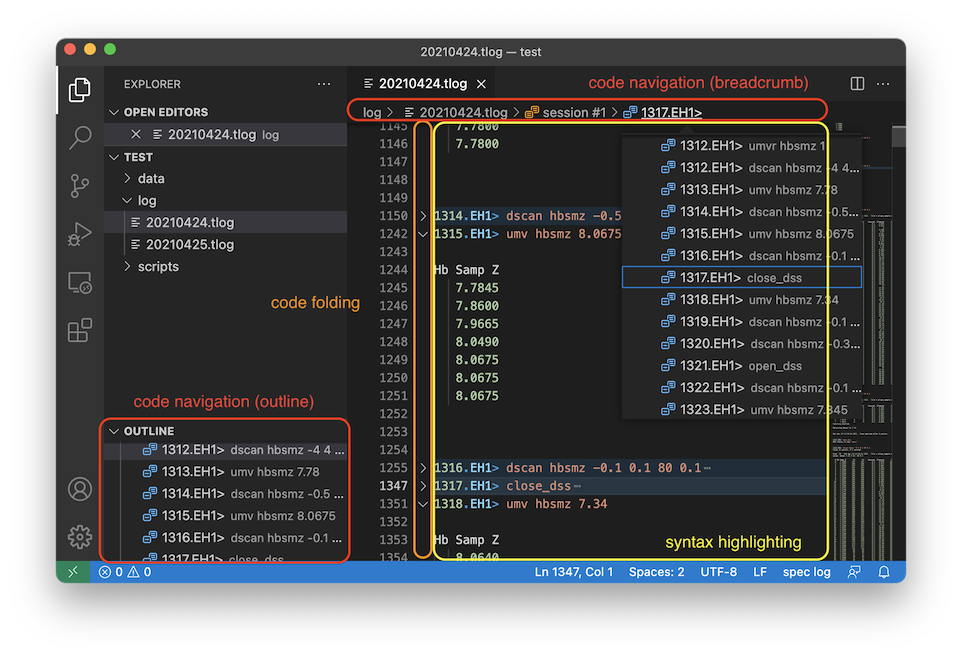
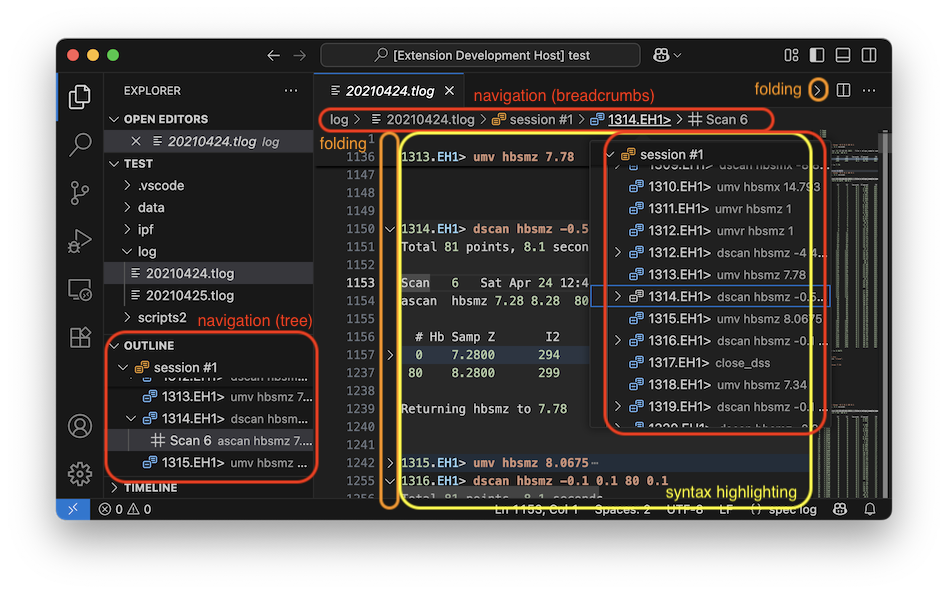
docs: update for v2.0.0

diff --git a/README.md b/README.md
@@ -1,6 +1,6 @@
 # __spec__ Log File Extension for Visual Studio Code
 
-The extension enhances user experiences in browsing __spec__ log files with Visual Studio Code.
+The extension is designed to assist a user in browsing __spec__ log files with Visual Studio Code.
 The term _log files_ here indicates files created when __spec__ software is launched with `-l` option (e.g., `fourc -l 20210414.tlog`).
 
 __spec__ does not specify the filename extension of log files.
@@ -20,12 +20,10 @@ Use [GitHub issues](https://github.com/fujidana/vscode-spec-log/issues) for bug 
 ## Features
 
 * __Syntax highlighting__
-* __Code navigation__
+* __Code navigation__ : prompts such as `1.FOURC>` and scans are regarded as breadcrumbs.
   * __Show all symbol definitions within a document__
-* __Code folding__
-* __Document links__
-
-Lines starting with a __spec__ prompt such as `1.FOURC>` are picked out for code navigation and folding.
+* __Code folding__ : continous lines that only contains numbers or time are foldable, in addition to prompts.
+* __Document links__ : Make a file path in a scan header a clickable link. The path is relative to the workspace, not to the log file.
 
 ![screenshot](resources/screenshot.png)
 
@@ -36,7 +34,7 @@ To do so, use "Fold Level 2" command or its equivalent Keyboard shortcut, Ctrl+K
 
 ## Known Issues
 
-See [GitHub issues](https://github.com/fujidana/vscode-spec-log/issues).
+See [GitHub Issues](https://github.com/fujidana/vscode-spec-log/issues).
 
 ## Release Notes
 

diff --git a/CONTRIBUTING.md b/CONTRIBUTING.md
@@ -19,7 +19,7 @@ Setup for extension authoring
 Here is a step-by-step guide to set up the development environment for the extension, for those who want to contribute code or debug the extension locally.
 
 1. Install VS Code (`code`), Git (`git`), and Node.js (`node`, `npm`).
-2. Install `pnpm` and `vsce` by the following command (`vsce` is optional): `npm install --global pnpm @vscode/vsce`.
+2. Install `pnpm` by the following command: `npm install --global pnpm`.
 3. Clone the original or forked repository: `git clone https://github.com/your_username/vscode-spec-log.git`. Replace `your_username` with `fujidana` if you want to clone the original repository.
 4. Open the cloned folder with VS Code: `cd vscode-spec-log; code .` (or via GUI). In the following, we assume you are in the `vscode-spec-log` folder. The easiest way to do so is to use the terminal in VS Code (Ctrl+Shift+`).
 5. Install Node.js packages the extension depends on: `pnpm install`
@@ -39,4 +39,4 @@ One can pull the latest changes from the remote repository by the following proc
 1. Open the cloned `vscode-spec-log` folder with VS Code.
 2. To pull the latest changes in the remote repository, run `git pull` in the terminal or select "Git: Pull" in the Command Palette (Cmd+Shift+P).
 3. Resolve conflicts if any.
-4. Install any new dependencies or updates by running `pnpm install` in the terminal.
+4. Install new dependencies and updated depndencies by running `pnpm install` in the terminal.

diff --git a/CHANGELOG.md b/CHANGELOG.md
@@ -4,6 +4,8 @@ All notable changes to the `fujidana/spec-log` extension will be documented in t
 
 ## [Unreleased]
 
+## [2.0.0] -- 2025-07-27
+
 ### Added
 
 - Make a file path in a scan header a clickable link. The relative path is resolved relative to the workspace, not to the log file.
@@ -152,7 +154,8 @@ All notable changes to the `fujidana/spec-log` extension will be documented in t
   - code navigation
   - folding
 
-[Unreleased]: https://github.com/fujidana/vscode-spec-log/compare/v1.4.3...HEAD
+[Unreleased]: https://github.com/fujidana/vscode-spec-log/compare/v2.0.0...HEAD
+[2.0.0]: https://github.com/fujidana/vscode-spec-log/compare/v1.4.3...v2.0.0
 [1.4.3]: https://github.com/fujidana/vscode-spec-log/compare/v1.4.2...v1.4.3
 [1.4.2]: https://github.com/fujidana/vscode-spec-log/compare/v1.4.1...v1.4.2
 [1.4.1]: https://github.com/fujidana/vscode-spec-log/compare/v1.4.0...v1.4.1
